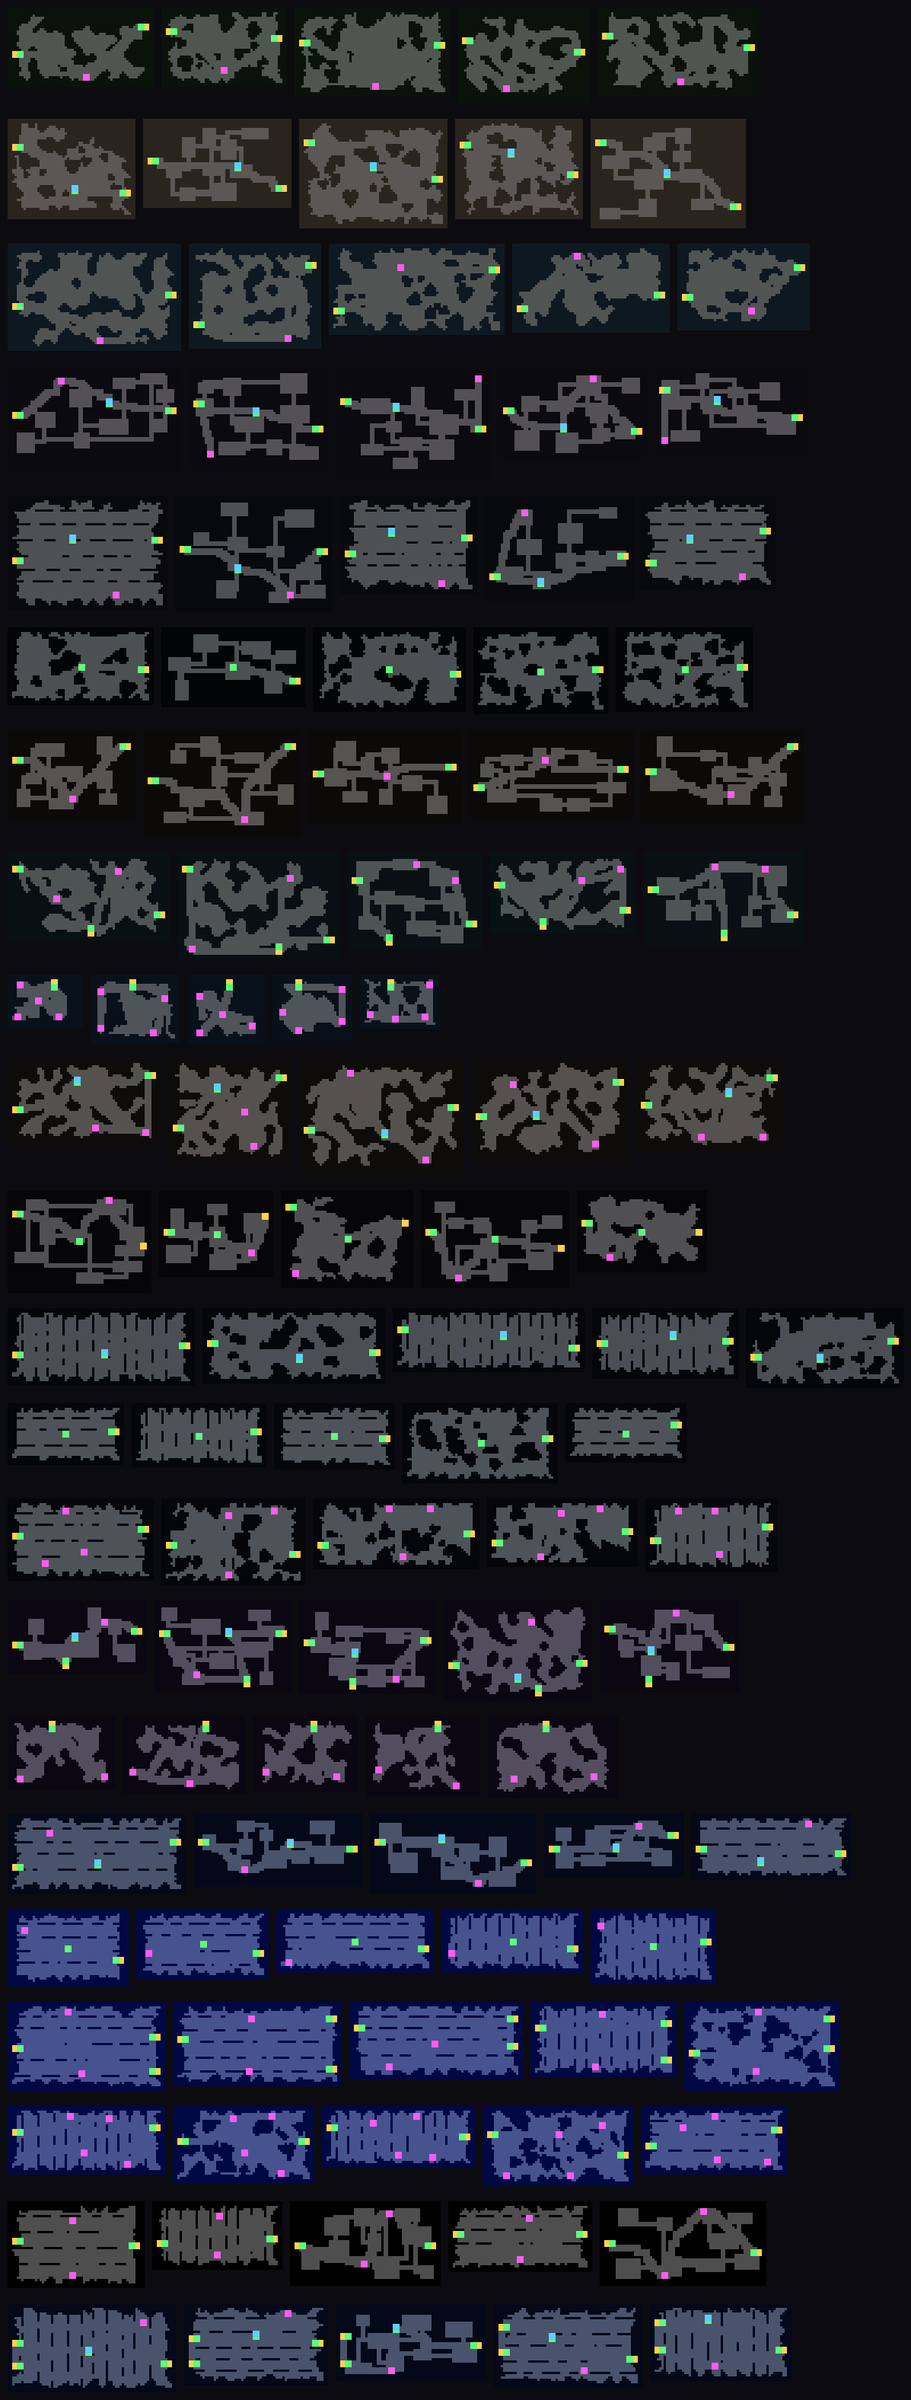
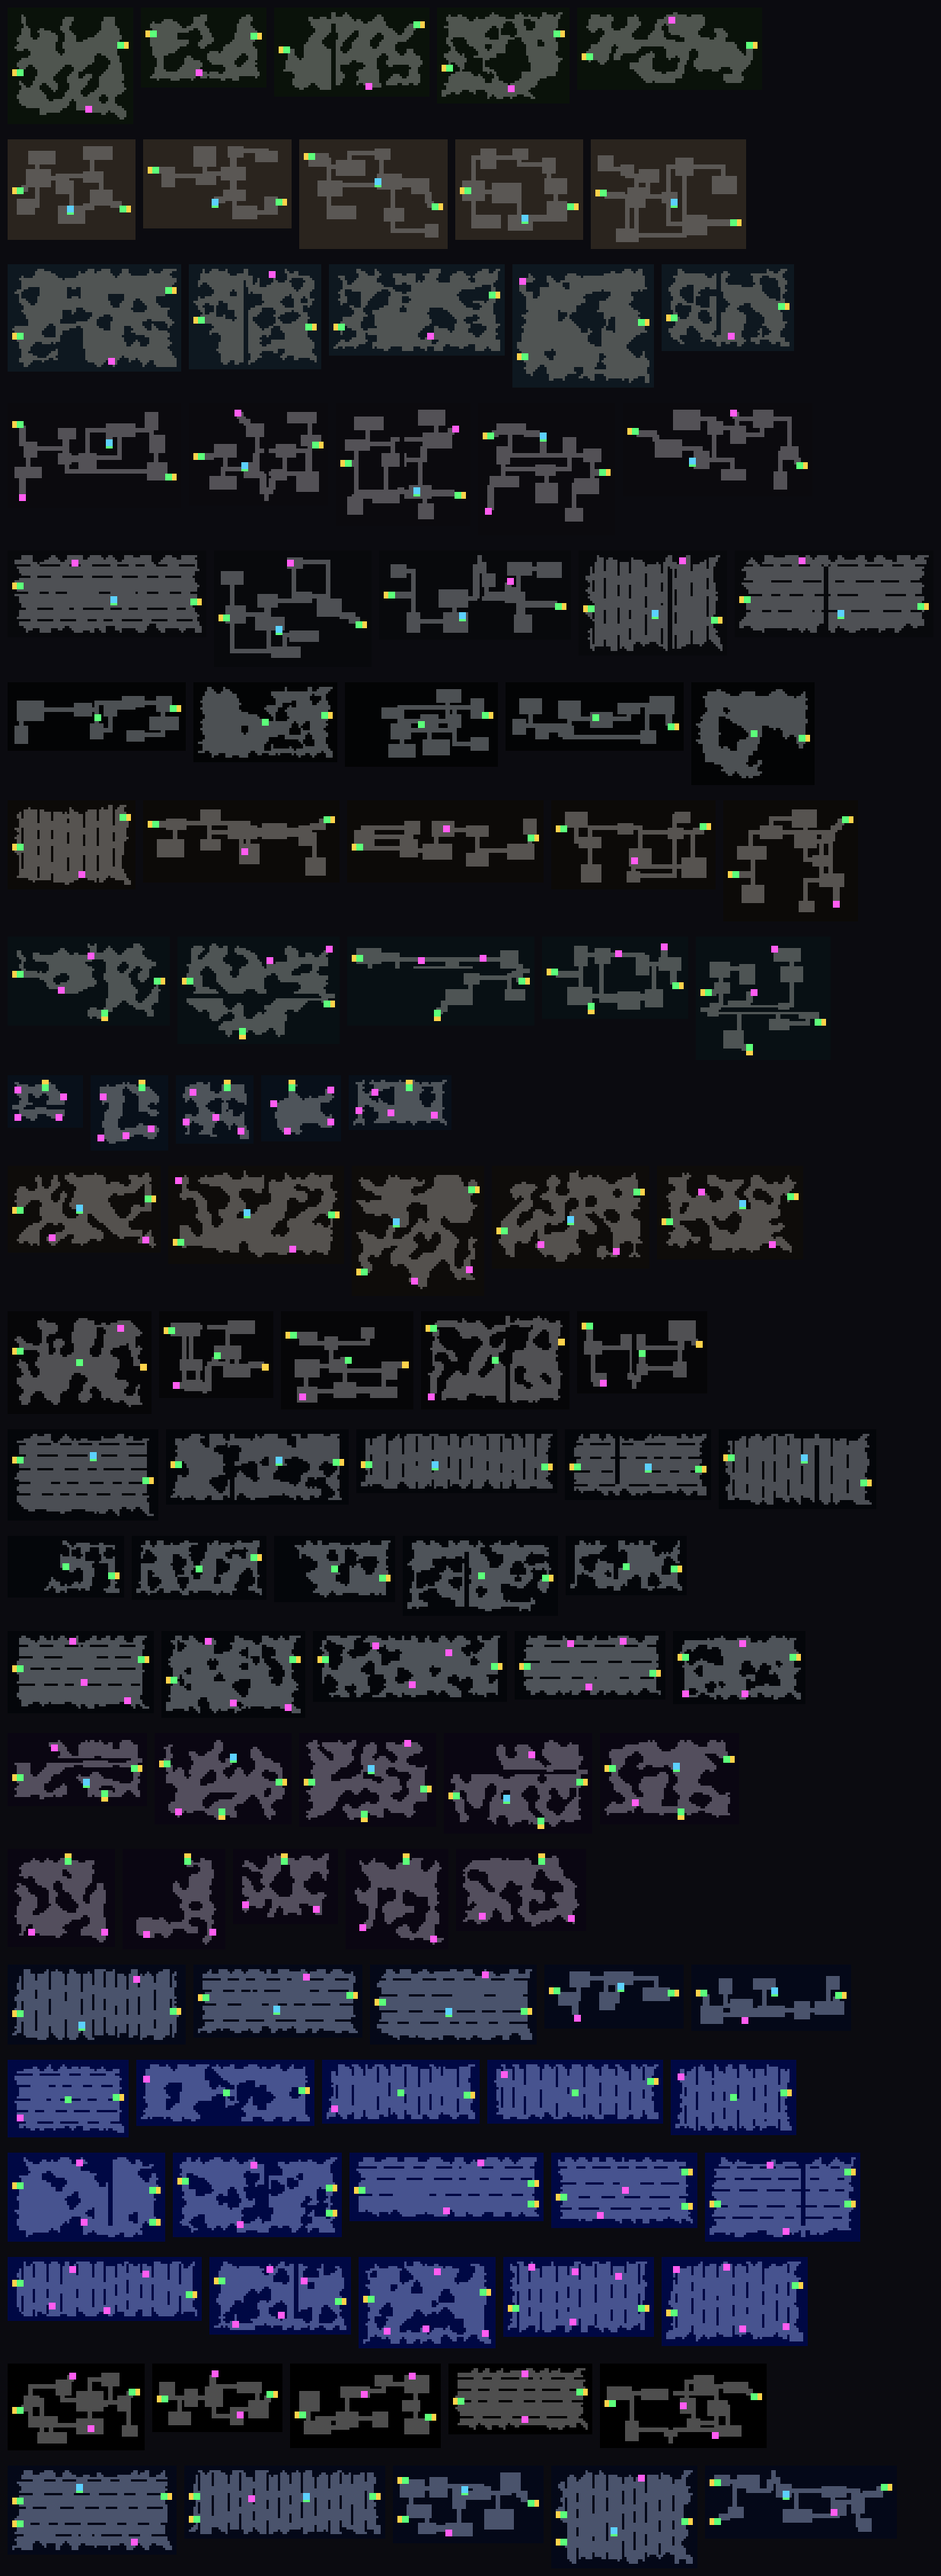
T116: zonas más largas, más anchas o con rodeo, pasillos por el camino más barato que respetan la plantilla y marcas del mapa ligadas a la instancia

diff --git a/docs/roadmap.md b/docs/roadmap.md
@@ -692,10 +692,11 @@ Origen: V3
 - Pruebas: 50 semillas por zona, todas conectadas, sin nada encima de un obstáculo; la integración rápida juega con semillas al azar.
 - Hecho: `Zone.setup(..., p_seed)`; con semilla, las zonas de `ZoneLayout.applies_to` se generan y trabajan sobre una **copia** de su definición con las posiciones de la instancia (`ZoneLayout.remap_def`: tamaño, salidas, entradas, waypoint, NPC, objetos de misión, pruebas, objetos clave; decorado, puntos extra, mutex y race condition en proporción y al suelo más cercano), así `World` y el resto leen lo correcto sin tocar los datos globales. Lo transitable (`is_walkable`, `clamp_to_walkable` → `ZoneLayout.point_ok` / `clamp_point`, barato), la colisión (rectángulos de muro), el suelo (rectángulos con la baldosa, variantes, banda del borde en cada frontera suelo/muro), los adornos del borde, el minimapa y el mapa grande usan la rejilla; obstáculos, accidentes, decorado, antorchas y cajas salen de la semilla. **Conectividad**: relleno en celdas de 40 px sobre suelo y obstáculos desde la entrada; si un punto clave no se alcanza, fuera los obstáculos que no estén en un claro amplio y, si aún falla, todos (en vez de regenerar la zona entera). `World.travel_to` pasa una semilla nueva en cada viaje (T118 la conservará). Lo explorado del mapa grande no se guarda en las zonas generadas (cambian de forma). De paso, `ZoneLayout` separa mejor dos salidas del mismo lado (se queda con el mejor intento). Pruebas `_test_generated_zones`: 50 semillas por zona de la rejilla y 3 por zona con la zona entera (puntos clave sobre suelo, fuera de obstáculos y alcanzables; la definición original intacta; el campamento no se genera); ~16 s. Capturas en `docs/capturas/zonas_3/115_*`. Pendiente para T116: las marcas propias del mapa (T53) siguen guardadas por zona y no se borran al cambiar de instancia.
 
-### [ ] T116 · Generador, parte 2: plantillas de forma por estilo · M
+### [x] T116 · Generador, parte 2: plantillas de forma por estilo · M
 Origen: V3
 - Las plantillas de T114 en el juego, una o dos por estilo; la zona puede salir más larga, más ancha o con un rodeo.
 - Minimapa, mapa grande y marcas propias (T53) con la forma nueva; las marcas se borran al cambiar de instancia.
+- Hecho: las plantillas, el minimapa y el mapa grande ya estaban en el juego desde T115. Nuevo en `ZoneLayout`: **variante de forma** (`shape`: normal ±15 %, «larga» +20-30 % de largo o «ancha» +20-30 % de alto, 20 % cada una), **rodeo** (`detour`, 30 %: cresta de muro de lado a lado, perpendicular a la marcha y lejos de los puntos clave, con un paso de 5 celdas en un extremo) y **pasillos por el camino más barato** (`AStarGrid2D`: suelo 1, cavar 8, cresta 80), así la cueva sigue siendo cueva, los racks no se cortan con zanjas rectas y el rodeo se respeta. **Marcas del mapa** ligadas a la instancia (`WorldMap._forget_old_marks`, `flags["marks_seed_<zona>"]`): se quedan con la misma semilla y se borran con otra. `capture_screens -- semillas` dice forma y rodeo; 110 disposiciones, 0 fallos, 12 ms de media; imágenes actualizadas en `docs/capturas/zonas_3/`. Prueba `_test_zone_shapes` (las tres formas salen, la cresta del rodeo queda en pie ≥ 90 %, marcas por instancia).
 
 ### [ ] T117 · Generador, parte 3: contenido que varía · M
 Origen: V3
@@ -957,3 +958,4 @@ No las ejecuta Claude solo; quedan aquí para no perderlas.
 - 2026-10-26 · T114 · Diseño del generador de zonas (`docs/zonas_3.md`) y prototipo `ZoneLayout` con cuatro plantillas (salas, cueva, plaza, racks) sobre una rejilla de 80 px; 110 disposiciones sin fallos de garantía, 12 ms por zona; capturas en `docs/capturas/zonas_3/`. **Pendiente de revisión del usuario.**
 - 2026-10-26 · T114 · Aprobado por el usuario con las respuestas por defecto del documento.
 - 2026-10-26 · T115 · Las zonas de combate se generan en cada viaje con una semilla nueva: posiciones de la instancia en una copia de la definición, lo transitable, la colisión, el suelo, el borde, el minimapa y el mapa grande sobre la rejilla, y obstáculos que no cortan el paso.
+- 2026-10-26 · T116 · Zonas más largas, más anchas o con rodeo, pasillos que siguen la forma de la plantilla (A*) y marcas del mapa que duran lo que la instancia.

diff --git a/README.md b/README.md
@@ -224,7 +224,7 @@ El acto está definido en `data/act1.json` y lo construye `Zone` (`scripts/game/
 | Sala del Servidor Principal | 12 | | Jefe: **El Arquitecto del Monolito** |
 
 - **Terreno**: los bordes de cada zona son irregulares y temáticos (maleza y árboles de cables en el bosque, acantilados en las ruinas, agua en el pantano, muros en las catacumbas, paredes de racks en la granja, el vacío binario del Sandbox y datos corruptos al rojo en la sala del jefe). Dentro hay accidentes grandes (`features`): lagos, colinas, simas, lagos de datos, agujeros 404 y charcos de lava. Todo tiene colisión y se ve en el minimapa.
-- **Zonas que cambian en cada visita** (versión 3.0, diseño en `docs/zonas_3.md`): las zonas de combate se generan al entrar con una semilla nueva (`ZoneLayout`): forma según el estilo (salas y pasillos, cueva, plaza con islas o pasillos de racks), tamaño ±15 %, cada salida en su lado pero en otro sitio, waypoint entre la entrada y la salida, y NPC y objetos de misión en rincones propios; todo queda conectado. Los campamentos, las arenas de jefe, los incidentes y el tutorial son siempre iguales.
+- **Zonas que cambian en cada visita** (versión 3.0, diseño en `docs/zonas_3.md`): las zonas de combate se generan al entrar con una semilla nueva (`ZoneLayout`): forma según el estilo (salas y pasillos, cueva, plaza con islas o pasillos de racks), tamaño ±15 % y a veces más larga o más ancha, a veces con un **rodeo** (una cresta que solo se cruza por un extremo), cada salida en su lado pero en otro sitio, waypoint entre la entrada y la salida, y NPC y objetos de misión en rincones propios; todo queda conectado. Los campamentos, las arenas de jefe, los incidentes y el tutorial son siempre iguales. Las marcas propias del mapa grande duran lo que la instancia de la zona.
 - **Obstáculos** con colisión (árboles, rocas, racks, lápidas…), dejando pasillos libres entre entradas, salidas, waypoint y NPCs; en las zonas generadas se quitan los que cortarían el paso.
 - **Enemigos controlados**: cada zona tiene un número fijo de grupos (`packs`, `pack_size`), repartidos por el mapa con distancia mínima entre ellos y a los puntos clave. No reaparecen hasta volver a entrar. Los enemigos chocan con los obstáculos y no salen del mapa.
 - **Salidas** en los bordes ("← Campamento", "Las Ruinas →"): basta con caminar hasta ellas.

diff --git a/docs/zonas_3.md b/docs/zonas_3.md
@@ -49,14 +49,15 @@ Salvo las salas, todas llevan **mordiscos en el contorno** (del tamaño proporci
 ## Cómo se genera (en orden)
 
 1. Semilla de la instancia (T118: nueva al entrar a una zona sin instancia viva; se guarda 10 minutos). Misma semilla → misma zona.
-2. Tamaño con ±15 % y plantilla del estilo.
+2. Tamaño: ±15 % por eje (60 %), o **larga** (+20-30 % de largo, −5-15 % de ancho; 20 %) o **ancha** (al revés; 20 %), T116. Plantilla del estilo.
 3. Rellenar la rejilla con la plantilla; mordiscos en el contorno.
 4. **Salidas**: cada una en su lado, a lo largo de él con ±25 % de lo que tenía en el diseño y a 10 celdas o más de otra salida del mismo lado.
 5. **Entradas**: cada una junto a la salida que tenía más cerca en el diseño (por ahí se llega); la del waypoint, junto al waypoint.
 6. **Waypoint** entre la primera y la última salida (35-65 % del camino) con un desvío lateral.
 7. **NPC, objetos de misión, pruebas y objetos clave**: cada uno en la celda de suelo más lejana de todo lo anterior entre 60 al azar (su «rincón»).
-8. **Conectar**: pasillos de 3 celdas entre todos los puntos clave (árbol mínimo) y un claro alrededor de cada uno. Así nada queda aislado aunque la plantilla haya cerrado el paso.
-9. Lo que no se alcanza desde la primera entrada pasa a muro (no quedan bolsas cerradas donde aparezcan enemigos).
+8. **Rodeo** (T116, 30 %): una cresta de muro de 2 celdas cruza la zona de lado a lado, perpendicular a la marcha y lejos de los puntos clave, con un solo paso de 5 celdas en un extremo.
+9. **Conectar**: un claro alrededor de cada punto clave y pasillos de 3 celdas entre todos (árbol mínimo) por el camino más barato (`AStarGrid2D`, T116): el suelo de la plantilla cuesta 1, cavar muro 8 y la cresta del rodeo 80. Así el pasillo va por la cueva o entre los racks en vez de abrir una zanja recta, y solo se cava donde la plantilla había cerrado el paso.
+10. Lo que no se alcanza desde la primera entrada pasa a muro (no quedan bolsas cerradas donde aparezcan enemigos).
 
 ## Garantías (comprobadas)
 
